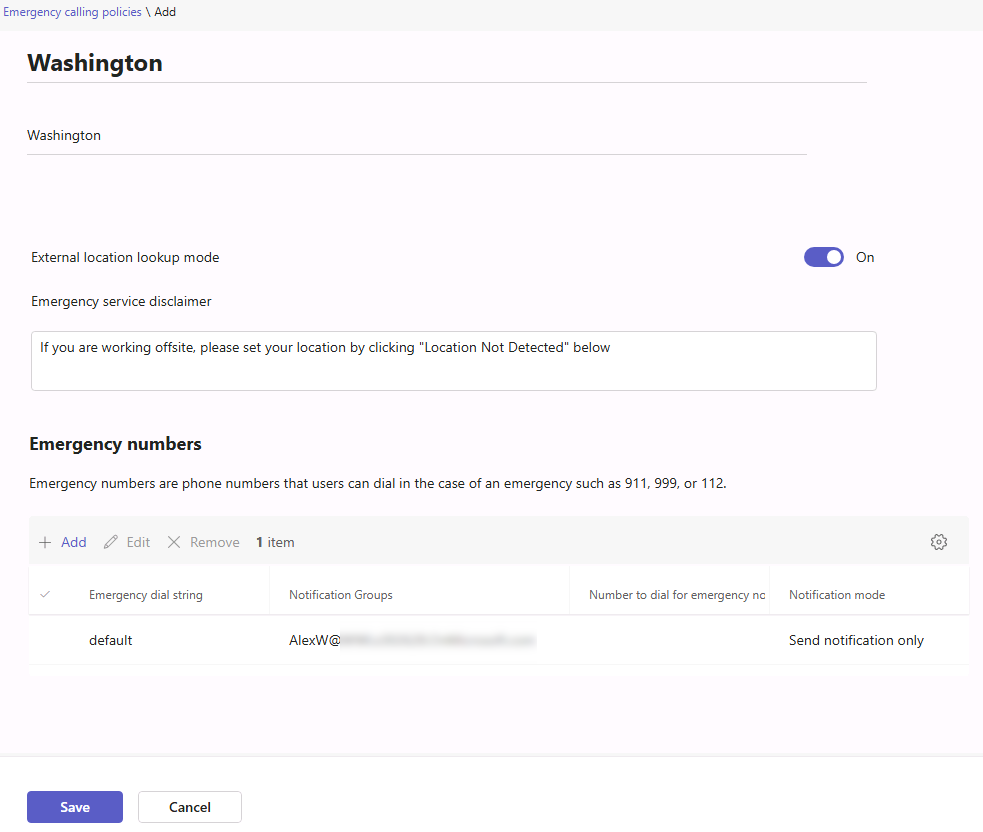
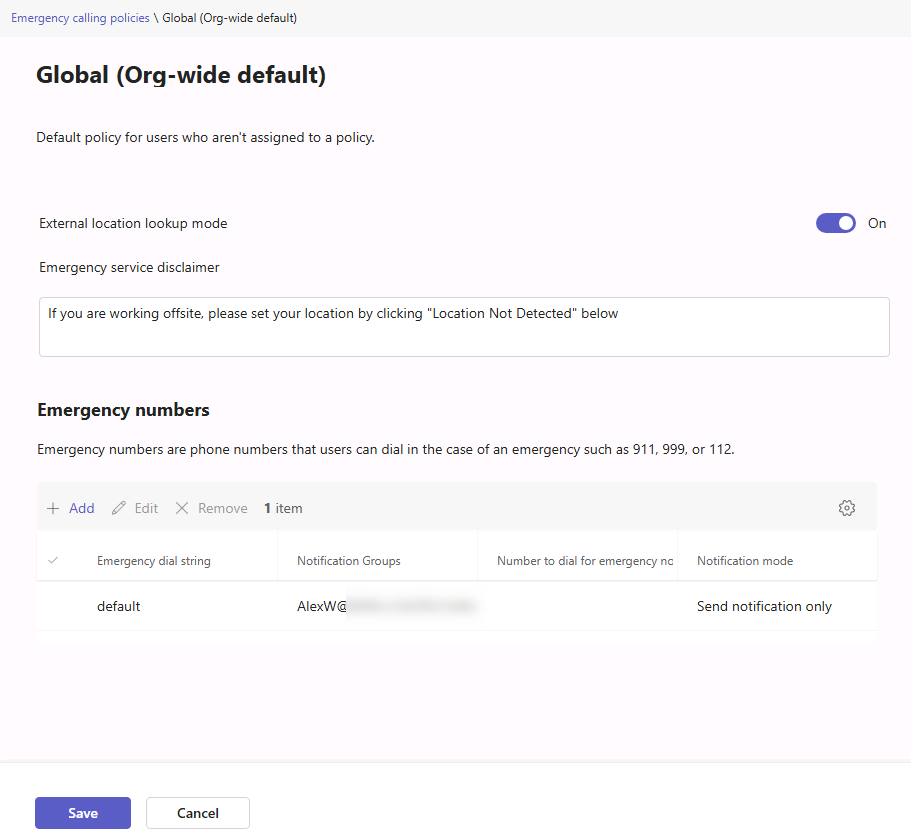
Moved to Using Global for Lab Speed

diff --git a/Instructions/Labs/LAB_AK_03_expand_environment_direct_routing.md b/Instructions/Labs/LAB_AK_03_expand_environment_direct_routing.md
@@ -629,13 +629,13 @@ You have successfully assigned the ELIN number to the location for emergency add
 
 ### Task 6 - Configure Emergency Call Routing Policy
 
-In the following task, you create a Emergency Call Routing Policy in Microsoft Teams Admin center. This will enable Dynamic Emergency Calling and route emergency calls to the SBC.
+In the following task, you will modify the Global Emergency Call Routing Policy in Microsoft Teams Admin center. This will enable Dynamic Emergency Calling and route emergency calls to the SBC.
 
 1. You are still signed in to MS721-CLIENT01 as “Admin” and signed into the **Microsoft Teams admin center** as **Allan Deyoung**.
 
 1. Select the three dashes, select **Voice**, then **Emergency policies**, and then **Call routing policies** across the top.
 
-1. Select **Add**, give the policy a name of **Washington** and a description as **Washington Direct Routing**. Change **Dynamic emergency calling** to **On**.
+1. Select the **Global (Org-wide default)** policy, and change **Dynamic emergency calling** to **On**.
 
 1. Select **Add** and then provide the following configuration:
 
@@ -660,13 +660,13 @@ In the following task, you create a Emergency Call Routing Policy in Microsoft T
 
 ### Task 7 - Configure Emergency Calling Policy
 
-In the following task, you create a Emergency Calling Policy in Microsoft Teams Admin center. This will enable external location lookup and enabled 911 call notifications.
+In the following task, you will modify the Global Emergency Calling Policy in Microsoft Teams Admin center. This will enable external location lookup and enable emergency call notifications.
 
 1. You are still signed in to MS721-CLIENT01 as “Admin” and signed into the **Microsoft Teams admin center** as **Allan Deyoung**.
 
 1. Select the three dashes, select **Voice**, and then **Emergency policies.**
 
-1. Select **Add**, give the policy a name of **Washington** and a description as **Washington**. Change **External location lookup mode** to **On**.
+1. Select the **Global (Org-wide default)** policy, and change **External location lookup mode** to **On**.
 
 1. In the **Emergency Services Disclaimer** box, enter the following text:
 
@@ -696,8 +696,6 @@ In the following task, you will configure location-based routing to allow connec
 1. Select the three dashes, select **Locations**, then **Network topology.**
 
 1. Select **Add**, give the Network Site a name of **Washington** and description as **Washington Network**. Set the **Network region** to **US** and then hange **Location based routing** to **On**.
-
-1. Under **Emergency calling policy** and **Emergency call routing policy**, select **Washington**.
 
 1. Select **Add subnets,** for **IP address** enter **192.168.0.0** and a **Network Range** of **24,** select **Apply,** and then select **Save**
 
